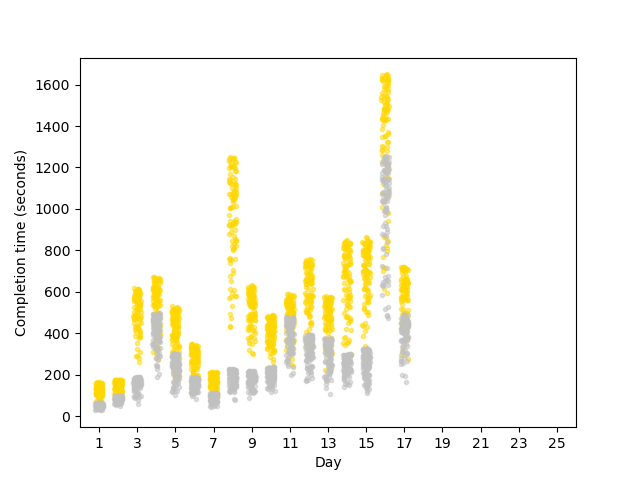
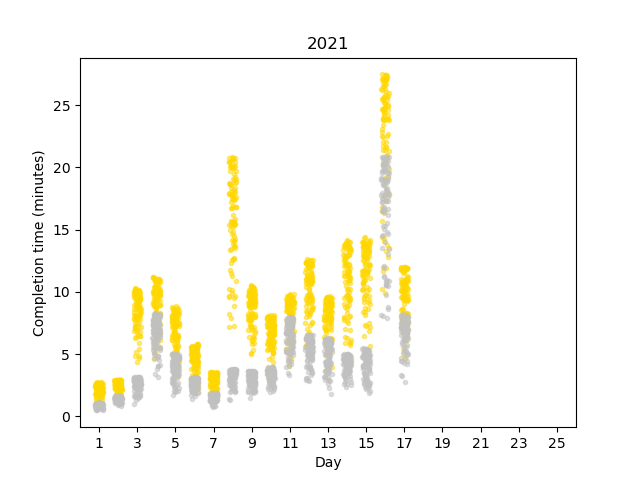
Update y-axis and added previous years

diff --git a/index.html b/index.html
@@ -2,6 +2,12 @@
 <body>
 
 <img src="times_2021.png">
+<img src="times_2020.png">
+<img src="times_2019.png">
+<img src="times_2018.png">
+<img src="times_2017.png">
+<img src="times_2016.png">
+<img src="times_2015.png">
 
 </body>
 </html>
